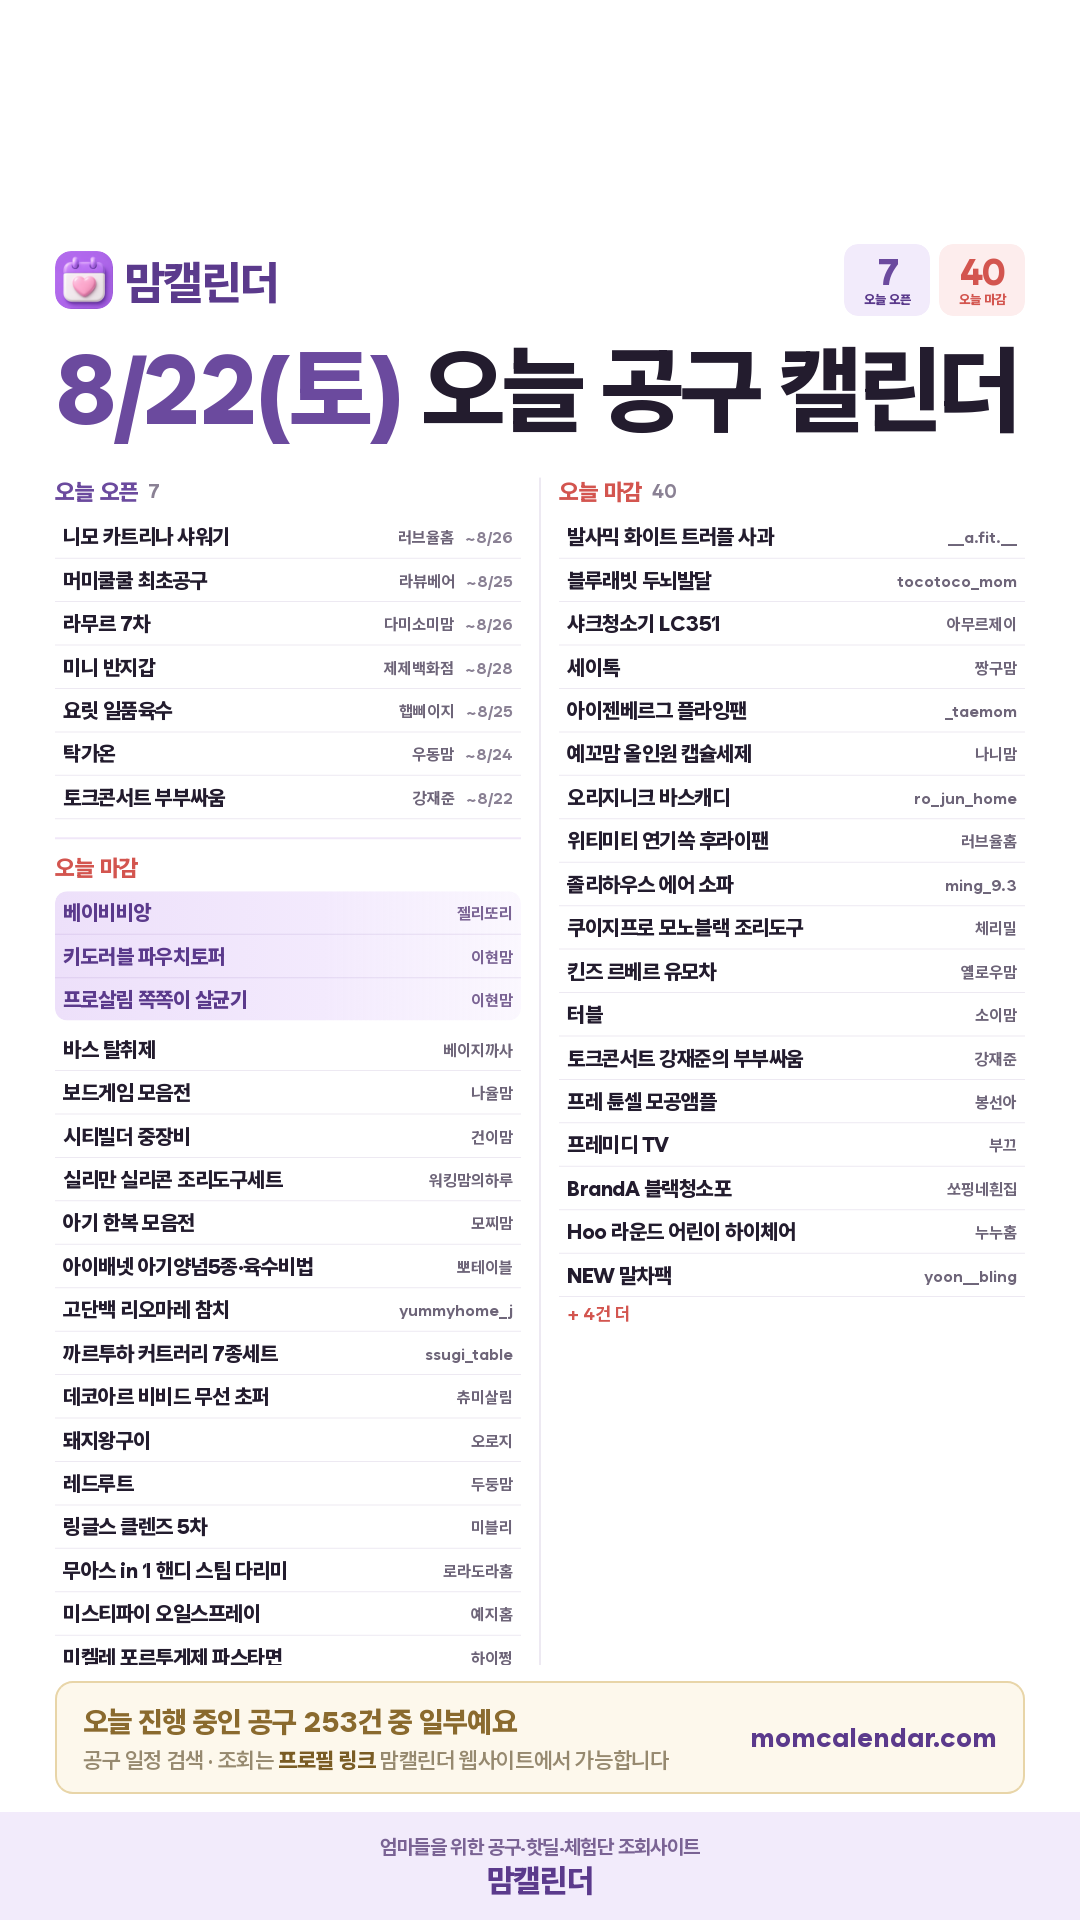
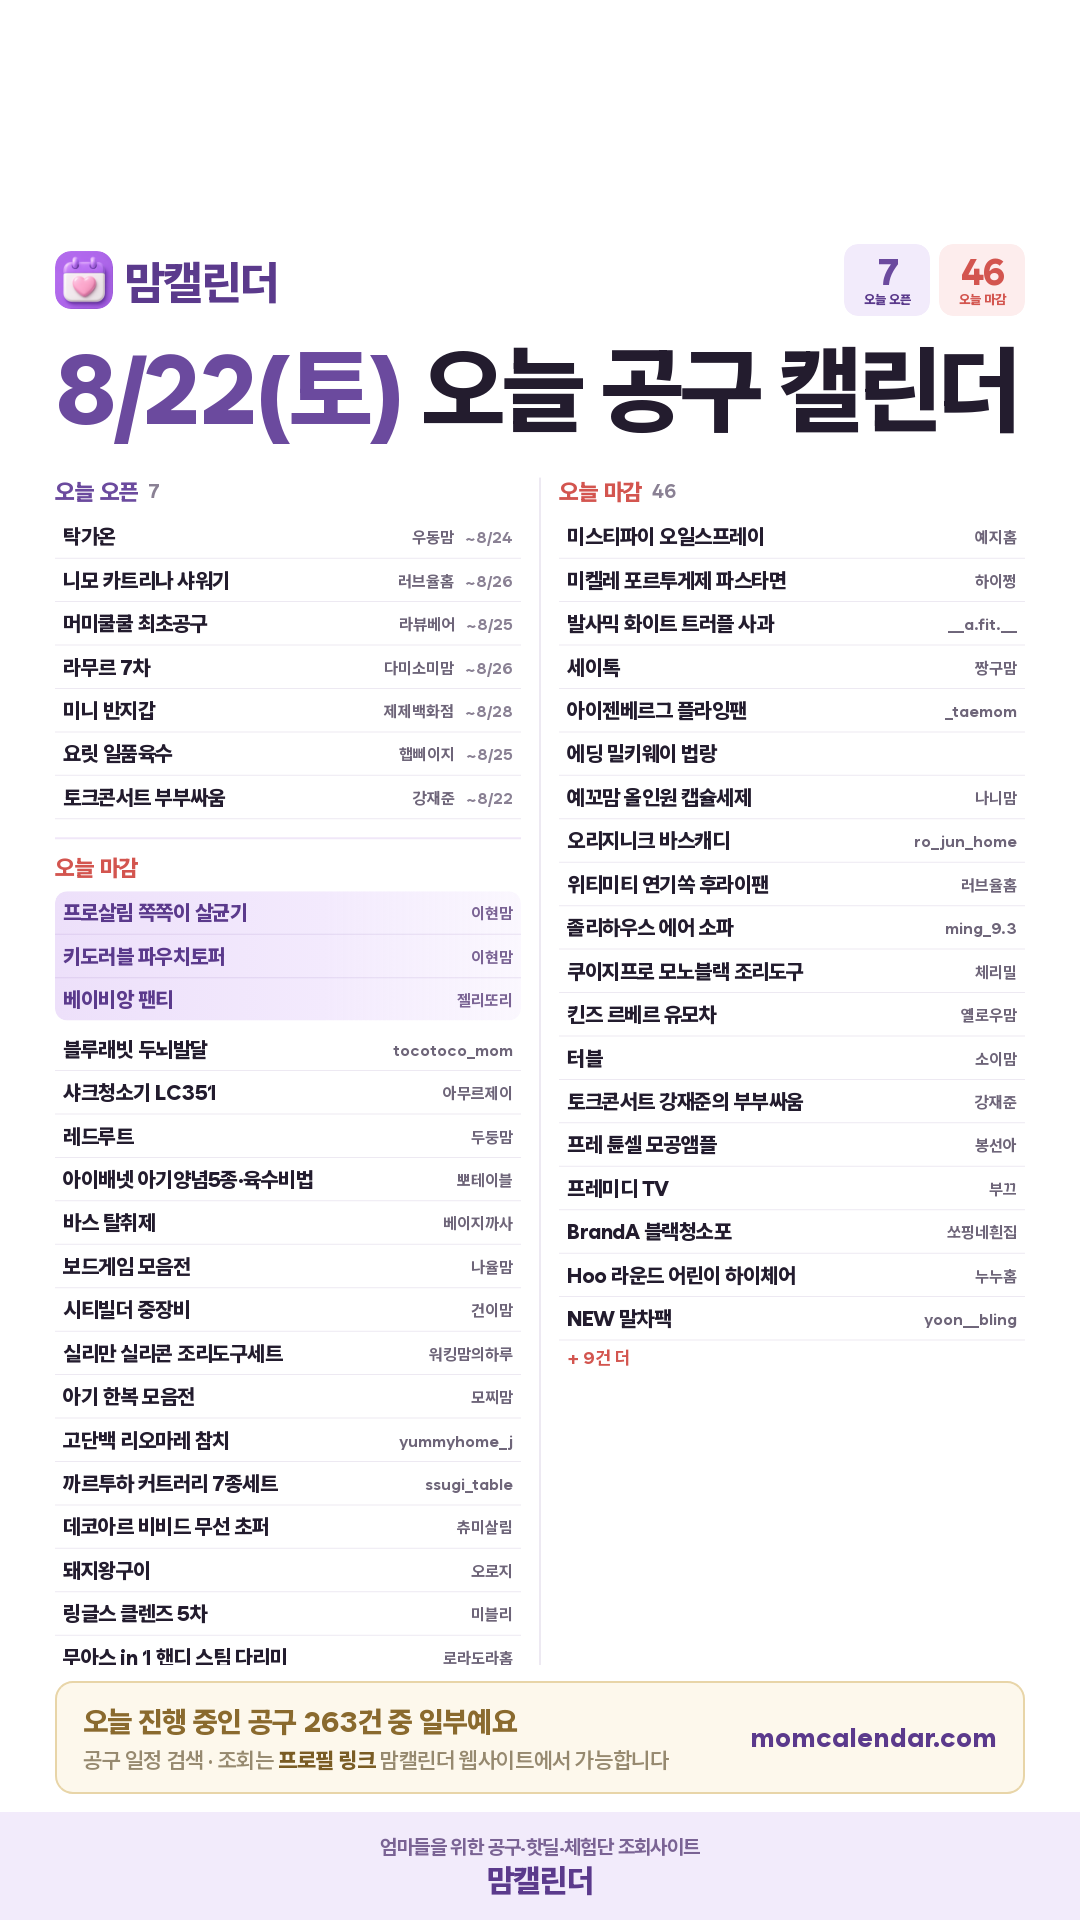
아침 인스타 카드 (2026-08-19)

diff --git a/daily/2026-08-22.html b/daily/2026-08-22.html
@@ -19,7 +19,7 @@ textarea{width:100%;height:260px;border:1px solid #E3DCEF;border-radius:10px;pad
 .todo p{font-size:12.5px;color:#6B6379;line-height:1.75;margin-top:6px}
 .todo a{color:#5B2E8C;font-weight:700}
 </style></head><body>
-<div class="hd"><div class="wrap"><h1>8월 22일(토) 인스타 카드</h1><p>오픈 7건 · 마감 40건</p></div></div>
+<div class="hd"><div class="wrap"><h1>8월 22일(토) 인스타 카드</h1><p>오픈 7건 · 마감 46건</p></div></div>
 <div class="wrap">
   
   <div class="card"><img src="./2026-08-22.png" alt="오늘 공구 카드"></div>
@@ -30,43 +30,44 @@ textarea{width:100%;height:260px;border:1px solid #E3DCEF;border-radius:10px;pad
 맘캘린더에서 공유드리는
 8월 22일(토) 오늘 공구 캘린더
 
-오픈 7건 · 마감 36건
+오픈 7건 · 마감 37건
 
 ━━━━━━━━━━━━━━
 
 🔓 오늘 오픈하는 공구
+· 탁가온 — 우동맘 (~8/24)
 · 니모 카트리나 샤워기 — 러브율홈 (~8/26)
 · 머미쿨쿨 좁쌀이불 최초공구 — 라뷰베어 (~8/25)
 · 라무르 7차 — 다미소미맘 (~8/26)
 · 미니 반지갑 — 제제백화점 (~8/28)
 · 요릿 일품육수 — 햅삐이지 (~8/25)
-· 탁가온 — 우동맘 (~8/24)
 · 토크콘서트 이은형, 강재준의 부부싸움 — 강재준 (~8/22)
 
 ⏰ 오늘 마감하는 공구
-· 베이비비앙 — 젤리또리 @jelly_ddori
-· 키도러블 파우치토퍼 — 이현맘 @ihyeon_mom_251125
 · 프로살림 쪽쪽이 살균기 — 이현맘 @ihyeon_mom_251125
+· 키도러블 파우치토퍼 — 이현맘 @ihyeon_mom_251125
+· 베이비앙 팬티 — 젤리또리 @jelly_ddori
+· 블루래빗 두뇌발달 — tocotoco_mom
+· 샤크청소기 LC351 — 아무르제이
+· 레드루트 — 두둥맘
+· 아이배넷 아기양념5종·육수비법 — 뽀테이블
 · 바스 탈취제 — 베이지까사
 · 보드게임 모음전 — 나율맘
 · 시티빌더 중장비 — 건이맘
 · 실리만 실리콘 조리도구세트 — 워킹맘의하루
 · 아기 한복 모음전 — 모찌맘
-· 아이배넷 아기양념5종·육수비법 — 뽀테이블
 · 고단백 올리브오일 리오마레 참치 — yummyhome_j
 · 까르투하 커트러리 7종세트 — ssugi_table
 · 데코아르 멜로우 비비드 무선 초퍼 — 츄미살림
 · 돼지왕구이 — 오로지
-· 레드루트 — 두둥맘
 · 링글스 클렌즈 5차 — 미블리
 · 무아스 2 in 1 핸디 스팀 다리미 — 로라도라홈
 · 미스티파이 오일스프레이 — 예지홈
 · 미켈레 포르투게제 파스타면 — 하이쩡
 · 발사믹 무화과·포도·화이트·트러플·사과 — __a.fit.__
-· 블루래빗 두뇌발달 — tocotoco_mom
-· 샤크청소기 LC351 — 아무르제이
 · 세이톡 — 짱구맘
 · 아이젠베르그 플라잉팬 — _taemom
+· 에딩 밀키웨이 법랑 — 
 · 예꼬맘 올인원 캡슐세제 — 나니맘
 · 오리지니크 싱크캐디·바스캐디 — ro_jun_home
 · 위티미티 연기쏙 후라이팬 — 러브율홈
@@ -92,12 +93,12 @@ textarea{width:100%;height:260px;border:1px solid #E3DCEF;border-radius:10px;pad
 ⚠ 공구 일정은 판매자 사정에 따라 변경되거나 조기 마감될 수 있어요. 구매 전에 해당 셀러 계정에서 한 번 더 확인해 주세요.
 
 #맘캘린더 #공구일정 #육아공구 #육아용품 #책육아 #살림템 #교구 #유모차 #영양제 #아기용품 #유아용품 #놀잇감</textarea>
-    <div class="meta">1434자 / 2200자 · 오픈 7/7 · 마감 36/36</div>
+    <div class="meta">1452자 / 2200자 · 오픈 7/7 · 마감 37/37</div>
     <button class="btn btn2" onclick="cp('cap','캡션')">캡션 복사</button>
   </div>
   <div class="card">
     <div class="meta" style="margin:0 0 8px;font-weight:800;color:#5B2E8C">네이버 블로그용 (blog.naver.com/momcal) — 수정해서 쓰셔도 돼요</div>
-    <textarea id="btitle" style="height:54px">8월 22일(토) 오늘 공구일정 모음 | 니모·탁가온·라무르·요릿·마이키즈·머미쿨쿨·토크콘서트 공구 오픈</textarea>
+    <textarea id="btitle" style="height:54px">8월 22일(토) 오늘 공구일정 모음 | 니모·탁가온·라무르·요릿·머미쿨쿨·토크콘서트 공구 오픈</textarea>
     <button class="btn btn2" onclick="cp('btitle','블로그 제목')">블로그 제목 복사</button>
     <textarea id="bbody" style="margin-top:9px">맘캘린더 채널 한눈에
 · 전체 공구 일정 실시간 검색 → https://momcalendar.com
@@ -110,15 +111,14 @@ textarea{width:100%;height:260px;border:1px solid #E3DCEF;border-radius:10px;pad
 · 카톡 수다방 → https://open.kakao.com/o/gr2kJhCh
 ─────────────
 
-8월 22일(토), 오늘 새로 오픈하는 인스타 공구일정 8건을 카테고리별로 정리했어요.
-오늘 마감되는 공구도 40건 있으니 놓치지 마세요.
+8월 22일(토), 오늘 새로 오픈하는 인스타 공구일정 7건을 카테고리별로 정리했어요.
+오늘 마감되는 공구도 46건 있으니 놓치지 마세요.
 
 (여기에 저장해 두신 카드 사진을 넣어주세요)
 
-■ 오늘 오픈하는 공구 8건
+■ 오늘 오픈하는 공구 7건
 
 [육아]
-· 마이키즈 — 송엘라 (~8/31 마감)
 · 머미쿨쿨 좁쌀이불 최초공구 — 라뷰베어 (~8/25 마감)
 · 토크콘서트 이은형, 강재준의 부부싸움 — 강재준 (~8/22 마감)
 
@@ -135,7 +135,7 @@ textarea{width:100%;height:260px;border:1px solid #E3DCEF;border-radius:10px;pad
 [패션]
 · 미니 반지갑 — 제제백화점 (~8/28 마감)
 
-■ 오늘 마감하는 공구 40건
+■ 오늘 마감하는 공구 46건
 · BrandA 블랙청소포 — 쏘핑네흰집
 · Hoo 라운드 어린이 하이체어 — 누누홈
 · NEW 말차팩 — yoon__bling
@@ -151,7 +151,7 @@ textarea{width:100%;height:260px;border:1px solid #E3DCEF;border-radius:10px;pad
 · 미켈레 포르투게제 파스타면 — 하이쩡
 · 바스 탈취제 — 베이지까사
 · 발사믹 무화과·포도·화이트·트러플·사과 — __a.fit.__
-· 베이비비앙 — 젤리또리
+· 베이비앙 팬티 — 젤리또리
 · 보드게임 모음전 — 나율맘
 · 블루래빗 두뇌발달 — tocotoco_mom
 · 샤크청소기 LC351 — 아무르제이
@@ -162,13 +162,19 @@ textarea{width:100%;height:260px;border:1px solid #E3DCEF;border-radius:10px;pad
 · 아이배넷 아기양념5종·육수비법 — 뽀테이블
 · 아이젠베르그 플라잉팬 — _taemom
 · 언어천재 말놀이 — 건이맘
+· 에딩 밀키웨이 법랑 — 
 · 옆집 꽃님이네 뚝딱카레 — _taemom
 · 예꼬맘 올인원 캡슐세제 — 나니맘
 · 오리지니크 싱크캐디·바스캐디 — ro_jun_home
 · 위티미티 연기쏙 후라이팬 — 러브율홈
+· 유아 보드게임 11종 — 
+· 제동한우 다짐육 — 
 · 졸리하우스 에어 소파 — ming_9.3
+· 춘천 감자밭 감자빵 — 
 · 쿠이지프로 모노블랙 조리도구 — 체리밀
+· 클래식농원 거반도 납작복숭아 — 
 · 키도러블 파우치토퍼 — 이현맘
+· 키즈에이원 세계명작동화 — 
 · 킨즈 르베르 유모차 — 옐로우맘
 · 터블 — 소이맘
 · 토크콘서트 이은형, 강재준의 부부싸움 — 강재준
@@ -180,11 +186,11 @@ textarea{width:100%;height:260px;border:1px solid #E3DCEF;border-radius:10px;pad
 ■ 오늘의 브랜드: 니모
 · 니모 공구는 인스타 셀러들이 기간을 정해 여는 공동구매예요. 최근에는 러브율홈, 누누맘 님이 진행했어요.
 · 가격은 오픈일에 셀러 계정 공지로 공개돼요. 같은 제품이라도 셀러·구성에 따라 조금씩 달라서, 공지에서 확인하는 게 가장 정확해요.
-· 이번에 놓쳤다면 너무 아쉬워하지 마세요. 니모 공구는 보통 일정 간격을 두고 다시 열려요. 전체 일정은 여기서 → https://momcalendar.com/g/%EB%8B%88%EB%AA%A8.html
+· 이번에 놓쳤다면 너무 아쉬워하지 마세요. 니모 공구는 보통 일정 간격을 두고 다시 열려요. 전체 일정은 여기서 → https://momcalendar.com
 
 ※ 공구 일정은 판매자 사정에 따라 변경되거나 조기 마감될 수 있어요. 구매 전에 해당 셀러 계정에서 한 번 더 확인해 주세요.
 
-#공구일정 #인스타공구 #인스타공구일정 #공동구매 #오늘의공구 #육아공구 #공구모음 #니모공구 #탁가온공구 #라무르공구 #요릿공구 #마이키즈공구 #머미쿨쿨공구 #토크콘서트공구</textarea>
+#공구일정 #인스타공구 #인스타공구일정 #공동구매 #오늘의공구 #육아공구 #공구모음 #니모공구 #탁가온공구 #라무르공구 #요릿공구 #머미쿨쿨공구 #토크콘서트공구</textarea>
     <button class="btn" onclick="cp('bbody','블로그 본문 전체')">블로그 본문 전체 복사 (태그 포함)</button>
     <div class="meta">순서: 사진 저장 → 블로그 앱 글쓰기 → 제목 붙여넣기 → 본문 붙여넣기 → (여기에 카드 사진) 자리에 사진 → 발행. 끝의 #태그들은 자동으로 태그가 돼요</div>
   </div>

diff --git a/daily/index.html b/daily/index.html
@@ -1,1 +1,1 @@
-<!DOCTYPE html><meta charset="UTF-8"><meta http-equiv="refresh" content="0;url=./2026-08-21.html">
+<!DOCTYPE html><meta charset="UTF-8"><meta http-equiv="refresh" content="0;url=./2026-08-22.html">
